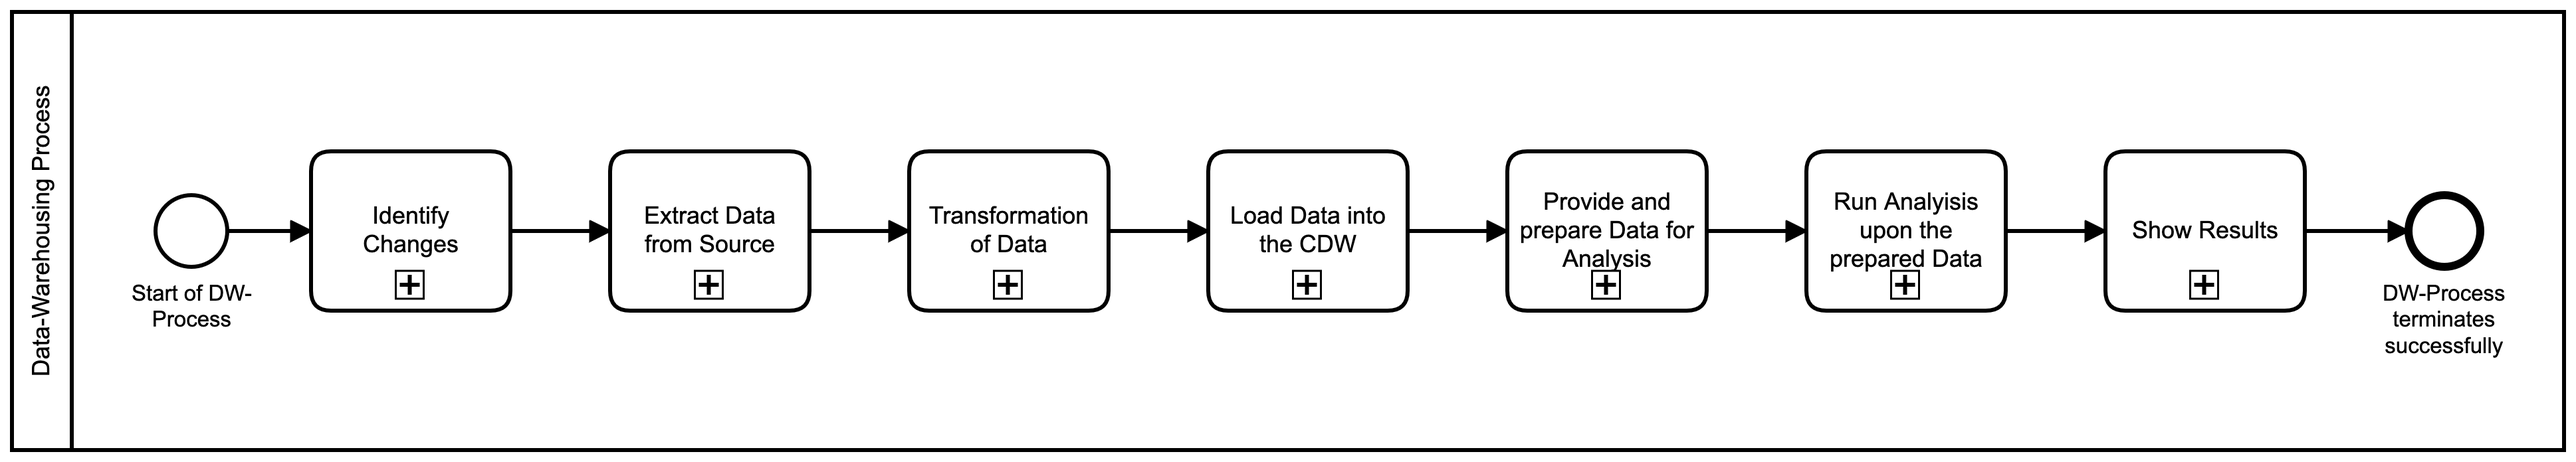
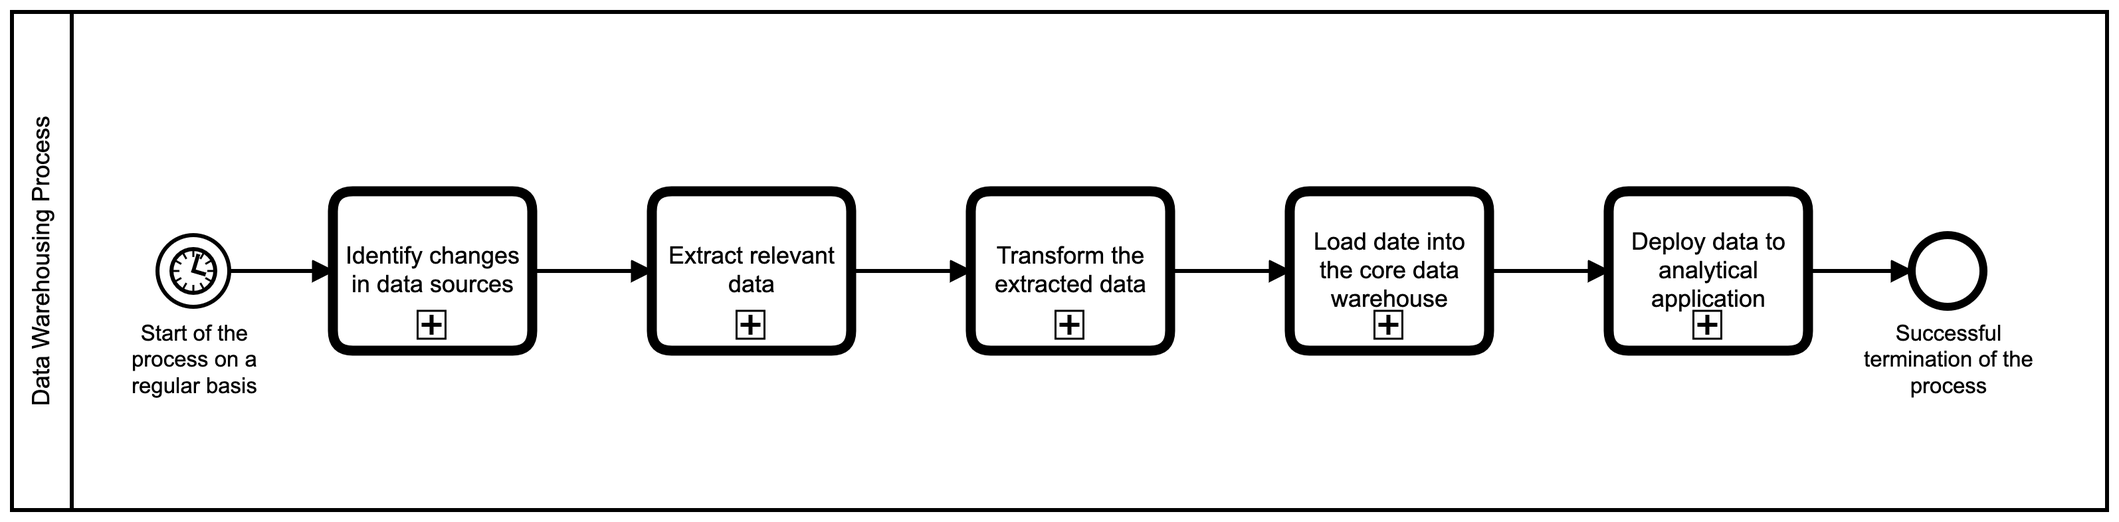
Added process driven architecture chapter

Changed region(s): [[0.0, 0.0, 1.0, 0.9957], [0.714, 0.3017, 0.7761, 0.3319], [0.2484, 0.3017, 0.3104, 0.3319]]

diff --git a/006ProcessDivenArchitectures.tex b/006ProcessDivenArchitectures.tex
@@ -1,8 +1,54 @@
-\section{Adaption of Bussiness Process Management}
+\section{Adaption of Business Process Management}
 \label{sec:bpm}
+After having introduced microservices and their event-based choreography we now take business process management (BPM) into account. This technique gains relevance while trying to set up the data warehousing process as adaptive as possible. Furthermore it is possible to overcome the challenges pointed out while talking about the event-based microservice architecture.\newline
+But first of all the term BPM will be defined and mapped upon the area of Data Warehouse Systems. Based upon this foundation the process-driven approach can be introduced. 
 
 \subsection{Defining Business Process Management}
+''Business Process Management (BPM) is a systemic approach geared to capture, design, execute, document, measure, monitor and control automated as well as non-automated processes in order to meet the objectives that are aligned with the business strategy of a company.'' \cite{bpmDef} Another important aspect is that BPM tries to focus upon end to end processes. By this is meant that processes are considered as whole without any separation into fragments.\cite{praxisBPM}\newline
+\\
+In order to provide uniform processes and make them generally interpretative the Object Management Group (OMG) defined the standard called Business Process Management Notation (BPMN) which is currently in its second version. A very positive aspect of this is, that the standard isn't owned or controlled by another company and can be used for free in various tools. In contrast to workflow tools there won't be any problem by switching the BPM tool due to this standardisation. \cite{bpmMethodStyle}
 
 \subsection{Applying BPM to the Data Warehousing Process}
+In this section we consider the data warehousing process which was introduced in chapter \ref{sec:referenceArchitecture} as an end-to-end process. The corresponding BPMN model can be found in figure \ref{fig:BPMNdatawarehousing}.\newline
+By having the tasks surrounded by the process pool, the context of the data warehousing process gets defined. BPMN offers various start events. In this case a cyclic timer was chosen in order to start the whole process. Afterwards cascading calling tasks can be seen which encapsulate various sub-processes. In the end the process terminates successfully. In this simple example it was decided to explicitly not use any kind of error handling in order to reduce its complexity.\newline
+\\
+\begin{figure}[!htb]
+    \centering
+    \includegraphics[scale=0.15]{pictures/DataWarehousingProcess.png}
+    \caption{BPMN 2.0 visualisation of the data warehousing process}
+    \label{fig:BPMNdatawarehousing}
+\end{figure}
+Figure \ref{fig:BPMNdatatransformation} shows a called sub-process from its parent diagram (figure \ref{fig:BPMNdatawarehousing}) in more detail. Of course this is just an example and can be adapted. By using this example the purpose and benefits of BPM in data warehouse systems gets more obvious.\newline
+As shown in the data transformation process it is possible to cascade multiple tasks with each other. Having automated as well as non automated user tasks will not need to a split within the process flow. It is also possible to make decisions upon the result of previous tasks. Due to this the creation and adaption of data warehouse processes with BPMN 2.0 is quite smooth. It easily can be thought of having separated case distinctions for various department needs or how to react on different input formats.\newline 
+Those three vertical lines beneath some of those tasks indicate that a multi-instance task is given. ''It allows execution of a certain step or even a complete sub process for each item in a given collection, [...] in parallel.'' \cite{bpmMultiInstance} \newline
+\begin{figure}[!htb]
+    \centering
+    \includegraphics[scale=0.13]{pictures/DataTransformationSubprocess.png}
+    \caption{BPMN 2.0 visualisation of a possible sub process for data transformation}
+    \label{fig:BPMNdatatransformation}
+\end{figure}
+
+In the next chapter the introduced know-how concerning BPM will be used as possibility in order to orchestrate micro services. Thus will furthermore result into the process driven architecture, which will be crucial to the resulting DWS architecture.
 
 \subsection{Resulting Process-Driven Approach and its Advantages}
+Next up it will be shown how BPM can be used in order to orchestrate microservices and especially self contained systems. The aim of this integration is to have a more adaptive microservice landscape which can be used within our DWS. As basis for our discussion we will make use of the challenges of event-based microservice choreography introduced in chapter \ref{sec:eventBasedArchitecture}.\newline
+\\
+By choosing the approach containing a workflow engine which is used for orchestrating REST calls by Bernd Rücker, it is possible to achieve the previously introduced goal. The workflow engine itself is used for running processes written in BPMN. Additional details about the corresponding implemented documentation can be linked within those.\newline
+In his blogpost ''The Microservices Workflow Automation Cheat Sheet'' Bernd Rücker introduced this architecture within the example of an order which seperates into services such as order, checkout, payment and shipment. Via the workflow engine those can be linked as shown in figure \ref{fig:RestArchitecture}. \cite{orchestrationMicroServices}\newline
+\begin{figure}[!htb]
+    \centering
+    \includegraphics[scale=0.65]{pictures/RestArchitecture.png}
+    \caption{Point-to-point communication by request/response \cite{orchestrationMicroServices}}
+    \label{fig:RestArchitecture}
+\end{figure}
+This architecture makes use of REST in order to call other microservices in a synchronous way. As seen the workflow engine can be contained within one or multiple microservices. \cite{orchestrationMicroServices} Typically the overall process is stored within the meta-service ''Order'' summarising the purpose of the system. By making use of multiple workflow engines within the services it is possible to apply this concept to called services as well. Due to this the ''Payment'' service could also be replaced by a cluster of multiple services which are orchestrated by the overall payment service.\newline
+To sum up the purpose of the workflow engine in this architectural over Rücker states following remark: ''stateful resilience patterns (like stateful retry), timeout handling, managing activity chains / the flow, consistency and compensation handling aka Saga pattern [...].'' \cite{orchestrationMicroServices}\newline
+\\
+By having a look back upon the challenges taken away the event-based bus architecture we now analyse if this approach provides any benefits. 
+\begin{itemize}
+    \item ''Flow of events'': By having an orchestrated approach it is always defined how the events / tokens flow through the system. Additionally most of the engine provide historic information about all tokens which have flown through the process. Due to this the behaviour is always reproducible and compliant. 
+    \item ''Losing sight of flow'': Since the BPMN model guides through the flow and is well defined this issue won't occur within this approach.
+    \item ''SLAs and resilience'': Since the engines purpose is to act within a stateful resilience pattern this challenge should have been solved as well. Nevertheless having the overall process contained in one service means, that a single point of failure. 
+    \item ''Wired coupling'': If a new service will be added within the process it will only affect it's parent. By adding an ''Age Check'' to our order process the only adaption would be contained within the process definition contained in the ''Order'' parent service. No other services will be affected. Due to this wired coupling can be less than within event-based systems. Slightly negative is that a stateful REST connection is chosen instead of some asynchronous possibility which is empathised by the SCS architecture. 
+\end{itemize}
+Overall it can be stated that the usage of a process driven architecture in order to orchestrate microservices can be beneficial. This technique will further be mapped upon a concrete data warehouse architecture which will be introduced in the next chapter. 

diff --git a/005Microservices.tex b/005Microservices.tex
@@ -43,6 +43,7 @@ Eberhard Wolff gives a quite good outlook about the adoption of this fundamental
 These fundamentals about micro services and self contained systems are quite important and will be mapped upon data warehouse architectures later on in chapter \ref{sec:finalArchitecture}.
 
 \subsection{Integrating an Event-Based Bus into the Micro-Service Landscape}
+\label{sec:eventBasedArchitecture}
 Making use of an event-driven choreographed architecture is the opposite of using a centralised orechestrator and therefore provides a loose coupling. The ''EventBus allows publish-subscribe-style communication between components without requiring the components to explicitly register with one another (and thus be aware of each other).'' \cite{EventBusExplained} \newline
 Another well known product which is often used in this context is Apache Kafka. It calls itself as ''distributed streaming platform'' having three key capabilities. First of all publishing and subscribing to streams, store streams as well as process streams.\cite{kafka}
 Next up we are using this technology as an example in order to elaborate upon the challenges of this approach.\newline
